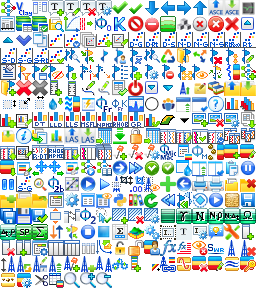
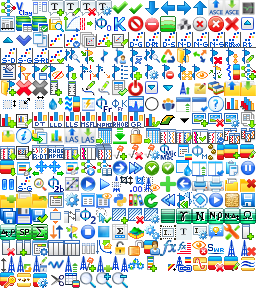
update

Changed region(s): [[0.0, 0.875, 0.8125, 1.0], [0.8438, 0.875, 1.0, 0.9688]]

diff --git a/source/less/sprite_32.less b/source/less/sprite_32.less
@@ -46,11 +46,11 @@
 .tools-normal-32x32, .track-delete-32x32, .track-duplicate-32x32, .tri-tracks-blank-32x32, .true-vertical-depth-32x32, 
 .unlock1-32x32, .user-define-32x32, .user-formula-32x32, .user-formula-multiline-32x32, .visual-remove-32x32, 
 .water-saturation-32x32, .well-depth-convertion-32x32, .well-32x32, .well-delete-32x32, .well-depth-32x32, 
-.well-header-edit-32x32, .well-header-save-32x32, .well-load-32x32, .well-marker-add-32x32, .well-new-32x32, 
-.well-parameter-save-32x32, .wells-32x32, .workflow-32x32, .zonation-track-add-32x32, .zone-add-plus-32x32, 
-.zone-curve-32x32, .zone-delete-32x32, .zone-edit-32x32, .zone-fluid-32x32, .zone-management-32x32, 
-.zone-mineral-32x32, .zone-properties-32x32, .zone-split-32x32, .zone-table-32x32, .zoom-default-32x32, 
-.zoom-in-32x32, .zoom-out-32x32, .block-value-32x32, .block-value-v-32x32
+.well-header-edit-32x32, .well-header-save-32x32, .well-insight-32x32, .well-load-32x32, .well-marker-add-32x32, 
+.well-new-32x32, .well-parameter-save-32x32, .wells-32x32, .workflow-32x32, .zonation-track-add-32x32, 
+.zone-add-plus-32x32, .zone-curve-32x32, .zone-delete-32x32, .zone-edit-32x32, .zone-fluid-32x32, 
+.zone-management-32x32, .zone-mineral-32x32, .zone-properties-32x32, .zone-split-32x32, .zone-table-32x32, 
+.zoom-default-32x32, .zoom-in-32x32, .zoom-out-32x32, .block-value-32x32, .block-value-v-32x32
 { display: inline-block; background: url('../img/img_32x32.png') no-repeat; overflow: hidden; text-indent: -9999px; text-align: left; }
  
 .neural-network-32x32 { background-position: -0px -0px; width: 32px; height: 32px; }
@@ -285,25 +285,26 @@
 .well-depth-32x32 { background-position: -0px -7328px; width: 32px; height: 32px; }
 .well-header-edit-32x32 { background-position: -0px -7360px; width: 32px; height: 32px; }
 .well-header-save-32x32 { background-position: -0px -7392px; width: 32px; height: 32px; }
-.well-load-32x32 { background-position: -0px -7424px; width: 32px; height: 32px; }
-.well-marker-add-32x32 { background-position: -0px -7456px; width: 32px; height: 32px; }
-.well-new-32x32 { background-position: -0px -7488px; width: 32px; height: 32px; }
-.well-parameter-save-32x32 { background-position: -0px -7520px; width: 32px; height: 32px; }
-.wells-32x32 { background-position: -0px -7552px; width: 32px; height: 32px; }
-.workflow-32x32 { background-position: -0px -7584px; width: 32px; height: 32px; }
-.zonation-track-add-32x32 { background-position: -0px -7616px; width: 32px; height: 32px; }
-.zone-add-plus-32x32 { background-position: -0px -7648px; width: 32px; height: 32px; }
-.zone-curve-32x32 { background-position: -0px -7680px; width: 32px; height: 32px; }
-.zone-delete-32x32 { background-position: -0px -7712px; width: 32px; height: 32px; }
-.zone-edit-32x32 { background-position: -0px -7744px; width: 32px; height: 32px; }
-.zone-fluid-32x32 { background-position: -0px -7776px; width: 32px; height: 32px; }
-.zone-management-32x32 { background-position: -0px -7808px; width: 32px; height: 32px; }
-.zone-mineral-32x32 { background-position: -0px -7840px; width: 32px; height: 32px; }
-.zone-properties-32x32 { background-position: -0px -7872px; width: 32px; height: 32px; }
-.zone-split-32x32 { background-position: -0px -7904px; width: 32px; height: 32px; }
-.zone-table-32x32 { background-position: -0px -7936px; width: 32px; height: 32px; }
-.zoom-default-32x32 { background-position: -0px -7968px; width: 32px; height: 32px; }
-.zoom-in-32x32 { background-position: -0px -8000px; width: 32px; height: 32px; }
-.zoom-out-32x32 { background-position: -0px -8032px; width: 32px; height: 32px; }
-.block-value-32x32 { background-position: -0px -8064px; width: 24px; height: 24px; }
-.block-value-v-32x32 { background-position: -0px -8088px; width: 24px; height: 24px; }
+.well-insight-32x32 { background-position: -0px -7424px; width: 32px; height: 32px; }
+.well-load-32x32 { background-position: -0px -7456px; width: 32px; height: 32px; }
+.well-marker-add-32x32 { background-position: -0px -7488px; width: 32px; height: 32px; }
+.well-new-32x32 { background-position: -0px -7520px; width: 32px; height: 32px; }
+.well-parameter-save-32x32 { background-position: -0px -7552px; width: 32px; height: 32px; }
+.wells-32x32 { background-position: -0px -7584px; width: 32px; height: 32px; }
+.workflow-32x32 { background-position: -0px -7616px; width: 32px; height: 32px; }
+.zonation-track-add-32x32 { background-position: -0px -7648px; width: 32px; height: 32px; }
+.zone-add-plus-32x32 { background-position: -0px -7680px; width: 32px; height: 32px; }
+.zone-curve-32x32 { background-position: -0px -7712px; width: 32px; height: 32px; }
+.zone-delete-32x32 { background-position: -0px -7744px; width: 32px; height: 32px; }
+.zone-edit-32x32 { background-position: -0px -7776px; width: 32px; height: 32px; }
+.zone-fluid-32x32 { background-position: -0px -7808px; width: 32px; height: 32px; }
+.zone-management-32x32 { background-position: -0px -7840px; width: 32px; height: 32px; }
+.zone-mineral-32x32 { background-position: -0px -7872px; width: 32px; height: 32px; }
+.zone-properties-32x32 { background-position: -0px -7904px; width: 32px; height: 32px; }
+.zone-split-32x32 { background-position: -0px -7936px; width: 32px; height: 32px; }
+.zone-table-32x32 { background-position: -0px -7968px; width: 32px; height: 32px; }
+.zoom-default-32x32 { background-position: -0px -8000px; width: 32px; height: 32px; }
+.zoom-in-32x32 { background-position: -0px -8032px; width: 32px; height: 32px; }
+.zoom-out-32x32 { background-position: -0px -8064px; width: 32px; height: 32px; }
+.block-value-32x32 { background-position: -0px -8096px; width: 24px; height: 24px; }
+.block-value-v-32x32 { background-position: -0px -8120px; width: 24px; height: 24px; }

diff --git a/source/less/sprite_16.less b/source/less/sprite_16.less
@@ -51,11 +51,11 @@
 .track-delete-16x16, .track-duplicate-16x16, .track-properties-16x16, .tracks-blank-3-16x16, .tracks-blank-4-16x16, 
 .tri-tracks-blank-16x16, .true-vertical-depth-16x16, .unlock1-16x16, .unlock-16x16, .user-define-16x16, 
 .user-formula-16x16, .user-formula-multiline-16x16, .visual-remove-16x16, .water-saturation-16x16, .well-16x16, 
-.well-delete-16x16, .well-depth-16x16, .well-depth-convertion-16x16, .well-header-edit-16x16, .well-load-16x16, 
-.well-marker-add-16x16, .well-new-16x16, .wells-16x16, .workflow-16x16, .zonation-track-add-16x16, 
-.zone-add-plus-16x16, .zone-corellation-16x16, .zone-curve-16x16, .zone-delete-16x16, .zone-edit-16x16, 
-.zone-fluid-16x16, .zone-management-16x16, .zone-mineral-16x16, .zone-properties-16x16, .zone-split-16x16, 
-.zone-table-16x16, .zoom-default-16x16, .zoom-in-16x16, .zoom-out-16x16
+.well-delete-16x16, .well-depth-16x16, .well-depth-convertion-16x16, .well-header-edit-16x16, .well-insight-16x16, 
+.well-load-16x16, .well-marker-add-16x16, .well-new-16x16, .wells-16x16, .workflow-16x16, 
+.zonation-track-add-16x16, .zone-add-plus-16x16, .zone-corellation-16x16, .zone-curve-16x16, .zone-delete-16x16, 
+.zone-edit-16x16, .zone-fluid-16x16, .zone-management-16x16, .zone-mineral-16x16, .zone-properties-16x16, 
+.zone-split-16x16, .zone-table-16x16, .zoom-default-16x16, .zoom-in-16x16, .zoom-out-16x16
 { display: inline-block; background: url('../img/img_16x16.png') no-repeat; overflow: hidden; text-indent: -9999px; text-align: left; }
  
 .neural-network-16x16 { background-position: -0px -0px; width: 16px; height: 16px; }
@@ -317,23 +317,24 @@
 .well-depth-16x16 { background-position: -0px -256px; width: 16px; height: 16px; }
 .well-depth-convertion-16x16 { background-position: -16px -256px; width: 16px; height: 16px; }
 .well-header-edit-16x16 { background-position: -32px -256px; width: 16px; height: 16px; }
-.well-load-16x16 { background-position: -48px -256px; width: 16px; height: 16px; }
-.well-marker-add-16x16 { background-position: -64px -256px; width: 16px; height: 16px; }
-.well-new-16x16 { background-position: -80px -256px; width: 16px; height: 16px; }
-.wells-16x16 { background-position: -96px -256px; width: 16px; height: 16px; }
-.workflow-16x16 { background-position: -112px -256px; width: 16px; height: 16px; }
-.zonation-track-add-16x16 { background-position: -128px -256px; width: 16px; height: 16px; }
-.zone-add-plus-16x16 { background-position: -144px -256px; width: 16px; height: 16px; }
-.zone-corellation-16x16 { background-position: -160px -256px; width: 16px; height: 16px; }
-.zone-curve-16x16 { background-position: -176px -256px; width: 16px; height: 16px; }
-.zone-delete-16x16 { background-position: -192px -256px; width: 16px; height: 16px; }
-.zone-edit-16x16 { background-position: -208px -256px; width: 16px; height: 16px; }
-.zone-fluid-16x16 { background-position: -224px -256px; width: 16px; height: 16px; }
-.zone-management-16x16 { background-position: -240px -256px; width: 16px; height: 16px; }
-.zone-mineral-16x16 { background-position: -0px -272px; width: 16px; height: 16px; }
-.zone-properties-16x16 { background-position: -16px -272px; width: 16px; height: 16px; }
-.zone-split-16x16 { background-position: -32px -272px; width: 16px; height: 16px; }
-.zone-table-16x16 { background-position: -48px -272px; width: 16px; height: 16px; }
-.zoom-default-16x16 { background-position: -64px -272px; width: 16px; height: 16px; }
-.zoom-in-16x16 { background-position: -80px -272px; width: 16px; height: 16px; }
-.zoom-out-16x16 { background-position: -96px -272px; width: 16px; height: 16px; }
+.well-insight-16x16 { background-position: -48px -256px; width: 16px; height: 16px; }
+.well-load-16x16 { background-position: -64px -256px; width: 16px; height: 16px; }
+.well-marker-add-16x16 { background-position: -80px -256px; width: 16px; height: 16px; }
+.well-new-16x16 { background-position: -96px -256px; width: 16px; height: 16px; }
+.wells-16x16 { background-position: -112px -256px; width: 16px; height: 16px; }
+.workflow-16x16 { background-position: -128px -256px; width: 16px; height: 16px; }
+.zonation-track-add-16x16 { background-position: -144px -256px; width: 16px; height: 16px; }
+.zone-add-plus-16x16 { background-position: -160px -256px; width: 16px; height: 16px; }
+.zone-corellation-16x16 { background-position: -176px -256px; width: 16px; height: 16px; }
+.zone-curve-16x16 { background-position: -192px -256px; width: 16px; height: 16px; }
+.zone-delete-16x16 { background-position: -208px -256px; width: 16px; height: 16px; }
+.zone-edit-16x16 { background-position: -224px -256px; width: 16px; height: 16px; }
+.zone-fluid-16x16 { background-position: -240px -256px; width: 16px; height: 16px; }
+.zone-management-16x16 { background-position: -0px -272px; width: 16px; height: 16px; }
+.zone-mineral-16x16 { background-position: -16px -272px; width: 16px; height: 16px; }
+.zone-properties-16x16 { background-position: -32px -272px; width: 16px; height: 16px; }
+.zone-split-16x16 { background-position: -48px -272px; width: 16px; height: 16px; }
+.zone-table-16x16 { background-position: -64px -272px; width: 16px; height: 16px; }
+.zoom-default-16x16 { background-position: -80px -272px; width: 16px; height: 16px; }
+.zoom-in-16x16 { background-position: -96px -272px; width: 16px; height: 16px; }
+.zoom-out-16x16 { background-position: -112px -272px; width: 16px; height: 16px; }

diff --git a/source/dialogs/DialogUtils.js b/source/dialogs/DialogUtils.js
@@ -4518,8 +4518,10 @@ exports.polygonManagerDialog = function (ModalService, wiD3Crossplot, callback){
                 if (self.polygons[index].change == change.unchanged) {
                     self.polygons[index].change = change.updated;
                 }
-                self.polygons[index].lineStyle = drawingPolygon.lineStyle;
-                self.polygons[index].points = JSON.stringify(drawingPolygon.points);
+                if (drawingPolygon) {
+                    self.polygons[index].lineStyle = drawingPolygon.lineStyle;
+                    self.polygons[index].points = JSON.stringify(drawingPolygon.points);
+                }
             });
         }
         this.polygonLineColor = function (index) {
@@ -4529,18 +4531,18 @@ exports.polygonManagerDialog = function (ModalService, wiD3Crossplot, callback){
         }
         function sendPolygonsAPIs() {
             const idCrossPlot = wiD3Crossplot.wiCrossplotCtrl.id;
-            const unchangedPolygons = self.polygons.filter(polygon => polygon.change == change.unchanged).map(unchangedPolygon => {
+            const unchangedPolygons = self.polygons.filter(polygon => polygon.change == change.unchanged && polygon.points).map(unchangedPolygon => {
                 unchangedPolygon.points = JSON.parse(unchangedPolygon.points);
                 return unchangedPolygon;
             });
-            const createdPolygons = self.polygons.filter((polygon) => polygon.change == change.created).map(createdPolygon => {
+            const createdPolygons = self.polygons.filter((polygon) => polygon.change == change.created && polygon.points).map(createdPolygon => {
                 createdPolygon.points = JSON.parse(createdPolygon.points);
                 createdPolygon.idCrossPlot = idCrossPlot;
                 createdPolygon.change = change.unchanged;
                 wiApiService.createPolygon(createdPolygon);
                 return createdPolygon;
             });
-            const updatedPolygons = self.polygons.filter((polygon) => polygon.change == change.updated).map(updatedPolygon => {
+            const updatedPolygons = self.polygons.filter((polygon) => polygon.change == change.updated && polygon.points).map(updatedPolygon => {
                 updatedPolygon.points = JSON.parse(updatedPolygon.points);
                 updatedPolygon.idCrossPlot = idCrossPlot;
                 updatedPolygon.change = change.unchanged;

diff --git a/source/js/utils.js b/source/js/utils.js
@@ -590,7 +590,7 @@ exports.projectToTreeConfig = function (project) {
     };
     projectModel.data = {
         childExpanded: false,
-        icon: 'wells-16x16',
+        icon: 'well-insight-16x16',
         label: project.name,
         selected: false
     };

diff --git a/source/js/wi-crossplot-handlers.js b/source/js/wi-crossplot-handlers.js
@@ -69,7 +69,7 @@ exports.DeleteUserLineButtonClicked = function() {
 }
 
 exports.UserDefineLineButtonClicked = function() {
-    console.log('UserDefineLineButton is clicked');
+    
 }
 
 exports.PolygonManagerButtonClicked = function() {
